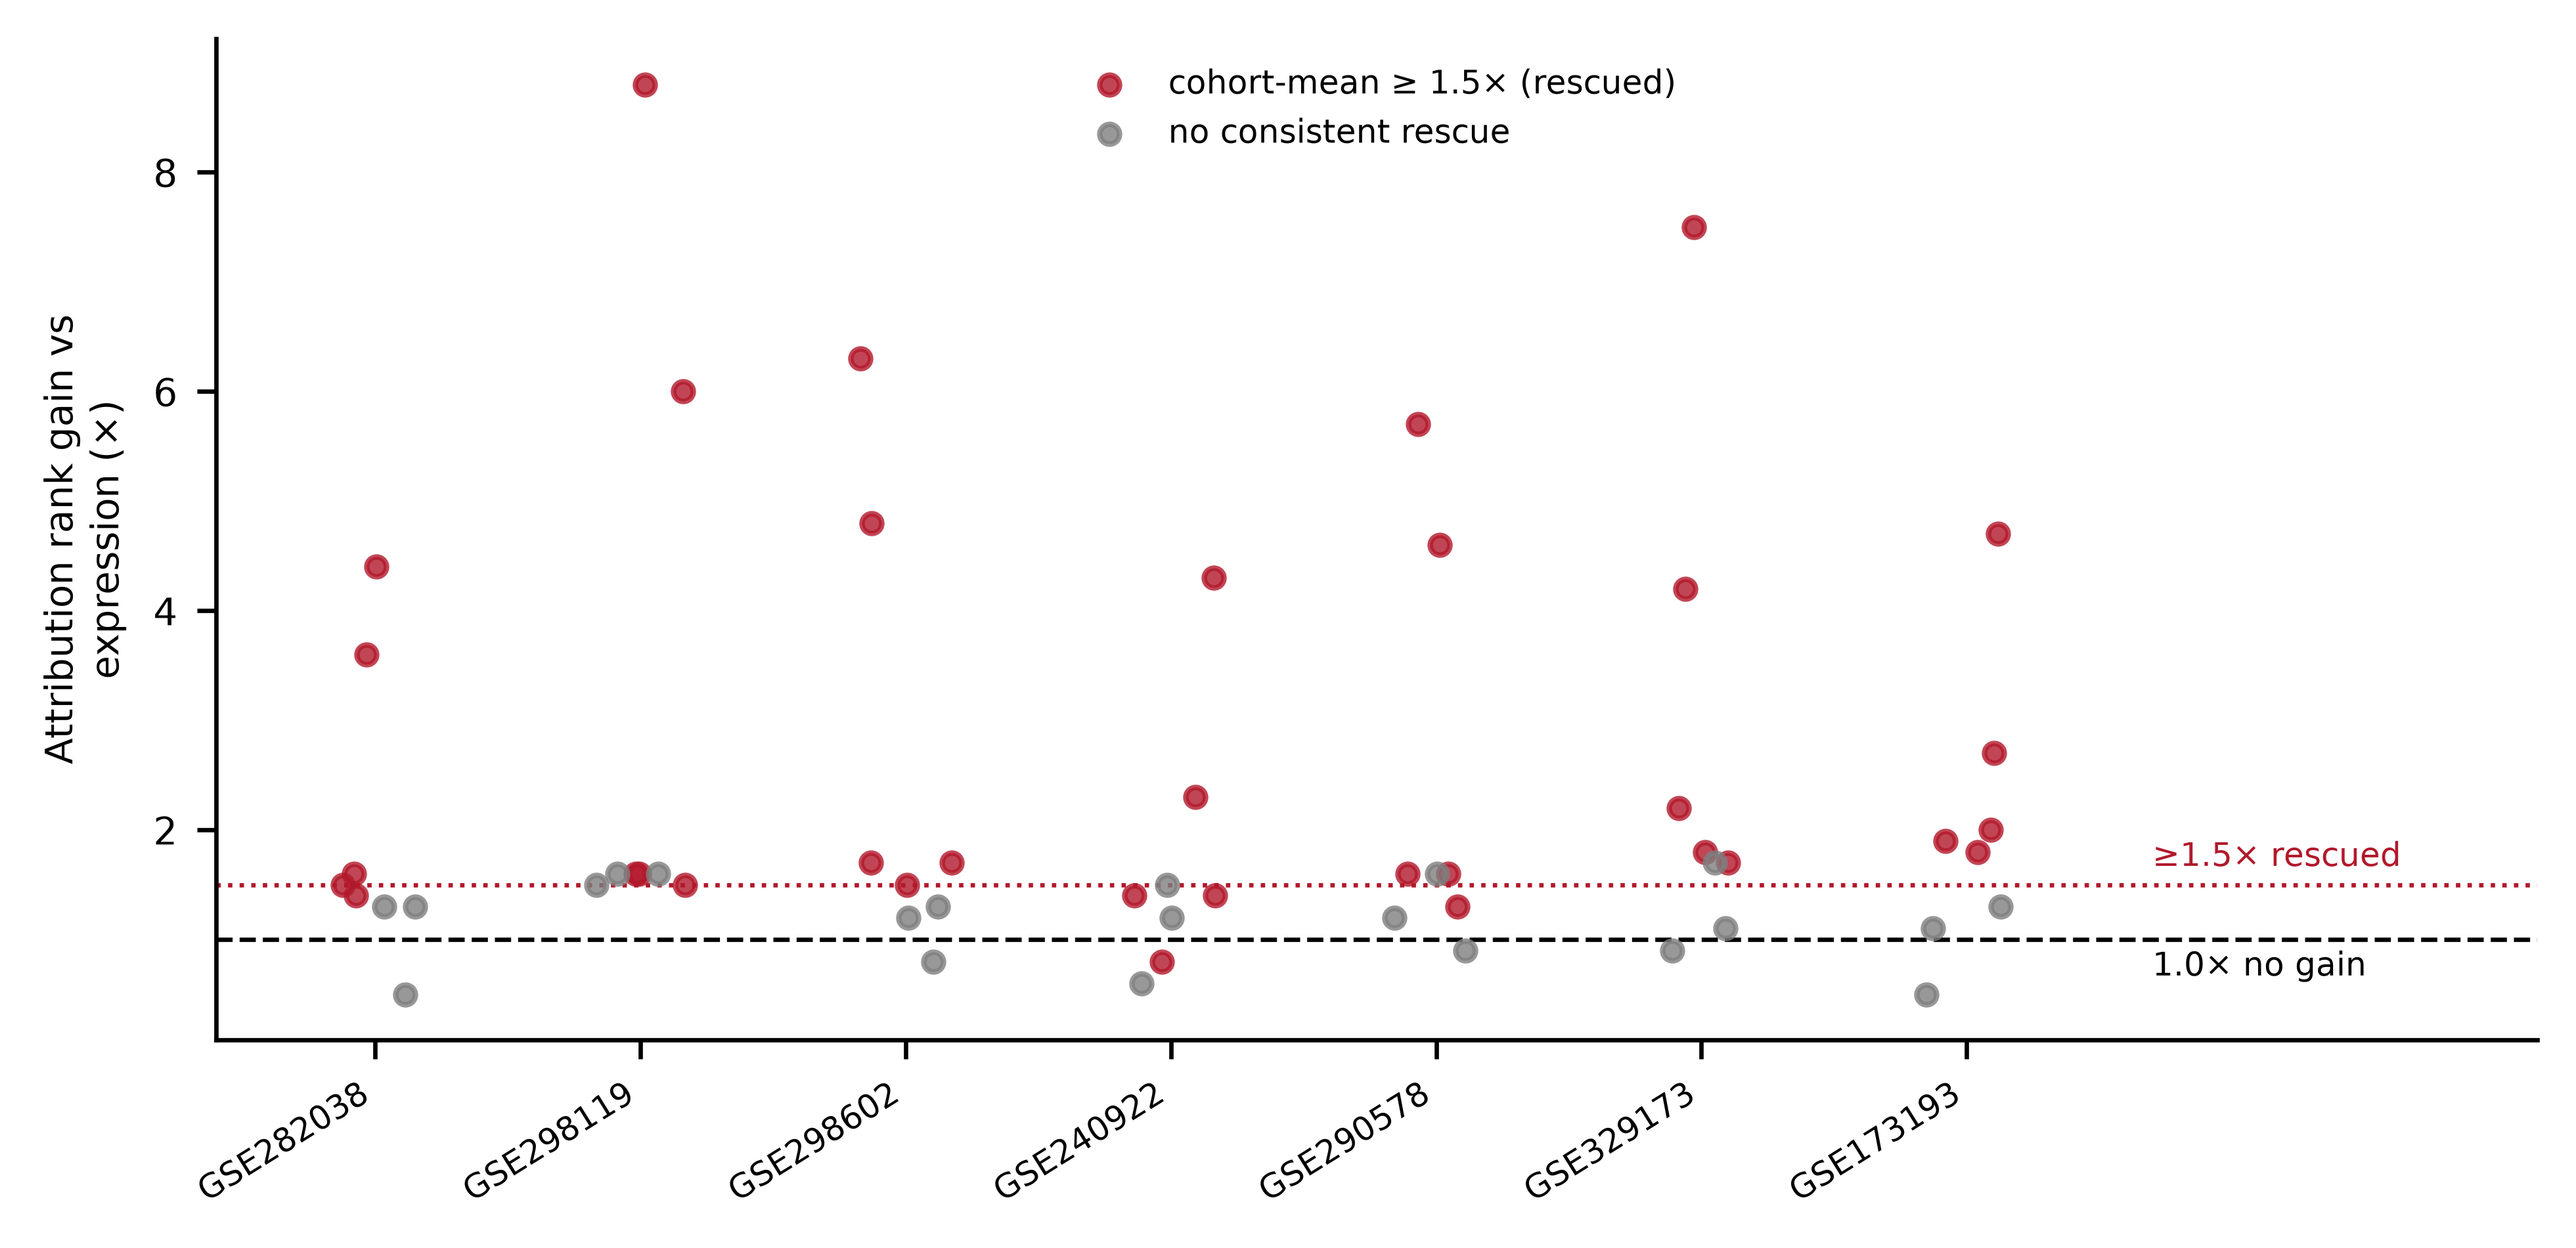
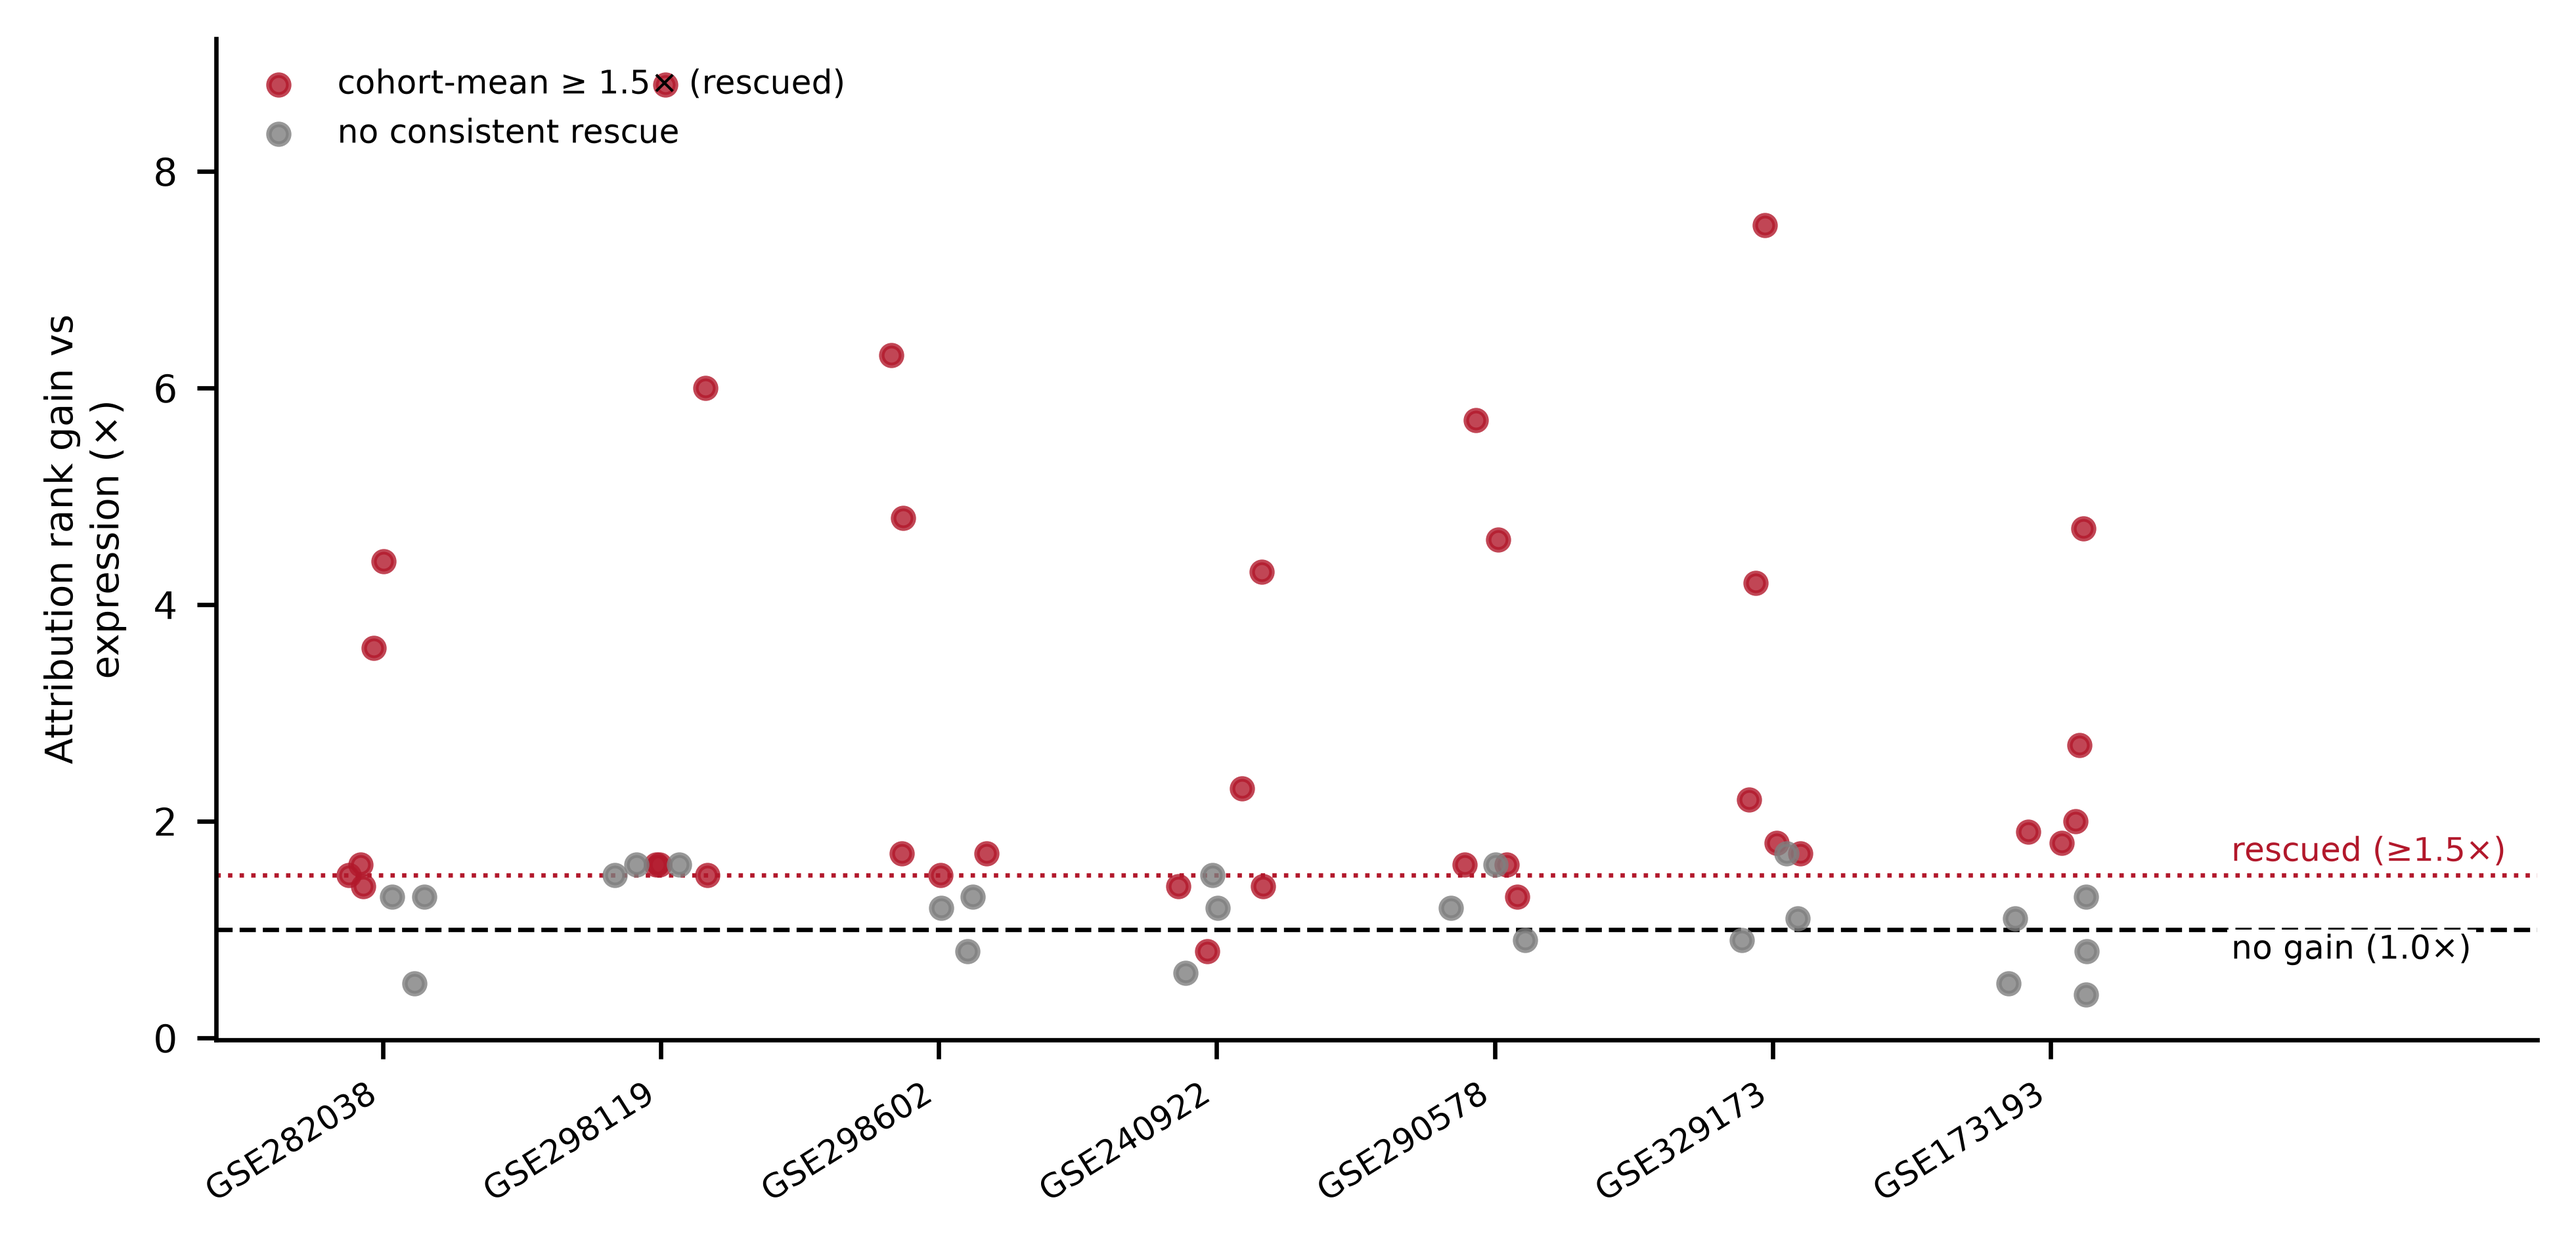
Fig6 completeness fix: plot all 10 TFs (add MSX2/DLX3), align S7 with 7-cohort means
- Fig6 previously showed 8 TFs; MSX2/DLX3 (measurable in GSE173193 only) were
  missing from the plot while the caption said 'ten TFs'.
- Fig6 red/grey rule unchanged: cohort-mean gain >= 1.5x. With all 7 cohorts
  included, GATA2 and NR2F2 are rescued in 7/7 cohorts (means 5.3x / 4.6x).
- S7 rewritten from hardcoded single-cohort values to verified 7-cohort means
  with n_cohorts_measurable and cohorts_with_gain_ge_1.5x columns.
- Fig scripts (30/40/41) TFS lists extended to 10 TFs.

diff --git a/scripts/38_si_tables.py b/scripts/38_si_tables.py
@@ -29,11 +29,16 @@ S6 = pd.DataFrame([
     ["Trophoblast", "EOPE", 0.096], ["Trophoblast", "severe", -0.006], ["Trophoblast", "LOPE", -0.159], ["Trophoblast", "mixed", 0.272],
 ], columns=["module", "subtype", "point_biserial_r"])
 
-S7 = pd.DataFrame([  # gain × (6 队列 phase1 + GSE173193=4.7/2.7/2.0/1.9/1.8/1.1/1.3/0.8 简表)
-    ["GATA2", 4.7, "6/6"], ["NR2F2", 2.7, "6/6"], ["KLF4", 2.0, "6/6"], ["TEAD4", 1.9, "6/6"],
-    ["TFAP2C", 1.8, "6/6"], ["ELF5", 1.5, "5/6"], ["HAND1", 1.1, "ns"], ["DLX3", 0.8, "ns"],
-    ["GATA3", 0.5, "ns"], ["MSX2", 0.4, "ns"],
-], columns=["TF", "typical_gain_x", "cohorts_rescued"])
+S7 = pd.DataFrame([  # 7 队列均值（GSE173193 来自 phase0，一位小数）；详见 Note
+    ["GATA2", 5.3, 7, 7], ["NR2F2", 4.6, 7, 7], ["KLF4", 1.6, 7, 5], ["TEAD4", 1.6, 7, 5],
+    ["TFAP2C", 1.6, 7, 6], ["ELF5", 1.4, 7, 3], ["HAND1", 1.3, 7, 2], ["GATA3", 0.8, 7, 1],
+    ["DLX3", 0.8, 1, 0], ["MSX2", 0.4, 1, 0],
+], columns=["TF", "mean_gain_x", "n_cohorts_measurable", "cohorts_with_gain_ge_1.5x"])
+S7_note = ("mean_gain_x = mean rescue factor across measurable cohorts (GSE173193 gains from the phase-0 "
+           "full-cohort run, one-decimal reporting). Rescue factor = (expression rank + 1) / (attribution rank + 1). "
+           "DLX3 and MSX2 were evaluable in GSE173193 only.")
+S7.loc[len(S7)] = [None, None, None, None]
+S7.loc[len(S7)] = ["Note", S7_note, None, None]
 
 sheets = {
     "S1_cohorts": S1,

diff --git a/scripts/40_fig_rebuild_r2.py b/scripts/40_fig_rebuild_r2.py
@@ -310,7 +310,7 @@ def fig6():
     san = json.loads(re.search(r"SANITY-ALL-BEGIN\n(\{.*?\n\})\nSANITY-ALL-END", raw, re.S).group(1))
     P0 = {"GATA2": 4.7, "NR2F2": 2.7, "KLF4": 2.0, "TEAD4": 1.9, "TFAP2C": 1.8,
           "ELF5": 1.3, "HAND1": 1.1, "DLX3": 0.8, "GATA3": 0.5, "MSX2": 0.4}
-    TFS = ["GATA2", "NR2F2", "KLF4", "TEAD4", "TFAP2C", "ELF5", "HAND1", "GATA3"]
+    TFS = ["GATA2", "NR2F2", "KLF4", "TEAD4", "TFAP2C", "ELF5", "HAND1", "GATA3", "MSX2", "DLX3"]
     dsets = [k for k in san if "B_lowexpr_TF_rescue" in san.get(k, {})]
     fig, ax = plt.subplots(figsize=(SNGL * 2, 3.3))
     rng = np.random.default_rng(1)

diff --git a/scripts/41_fig_r4.py b/scripts/41_fig_r4.py
@@ -204,7 +204,7 @@ def fig6():
     san = json.loads(re.search(r"SANITY-ALL-BEGIN\n(\{.*?\n\})\nSANITY-ALL-END", raw, re.S).group(1))
     P0 = {"GATA2": 4.7, "NR2F2": 2.7, "KLF4": 2.0, "TEAD4": 1.9, "TFAP2C": 1.8,
           "ELF5": 1.3, "HAND1": 1.1, "DLX3": 0.8, "GATA3": 0.5, "MSX2": 0.4}
-    TFS = ["GATA2", "NR2F2", "KLF4", "TEAD4", "TFAP2C", "ELF5", "HAND1", "GATA3"]
+    TFS = ["GATA2", "NR2F2", "KLF4", "TEAD4", "TFAP2C", "ELF5", "HAND1", "GATA3", "MSX2", "DLX3"]
     dsets = [k for k in san if "B_lowexpr_TF_rescue" in san.get(k, {})]
     n_total = len(dsets) + 1
     fig, ax = plt.subplots(figsize=(SNGL * 2 + 0.9, 3.3))

diff --git a/scripts/30_fig46_eope.py b/scripts/30_fig46_eope.py
@@ -50,7 +50,7 @@ san = json.loads(m.group(1))
 # GSE173193 从 phase0 的 full sanity（夜间报告数字）手动并入
 P0_GAINS = {"GATA2": 4.7, "NR2F2": 2.7, "KLF4": 2.0, "TEAD4": 1.9, "TFAP2C": 1.8,
             "GATA3": 0.5, "MSX2": 0.4, "HAND1": 1.1, "ELF5": 1.3, "DLX3": 0.8}
-TFS = ["GATA2", "NR2F2", "KLF4", "TEAD4", "TFAP2C", "ELF5", "HAND1", "GATA3"]
+TFS = ["GATA2", "NR2F2", "KLF4", "TEAD4", "TFAP2C", "ELF5", "HAND1", "GATA3", "MSX2", "DLX3"]
 dsets = [k for k in san if "B_lowexpr_TF_rescue" in san.get(k, {})]
 fig, ax = plt.subplots(figsize=(8.5, 4.6))
 rng = np.random.default_rng(1)
